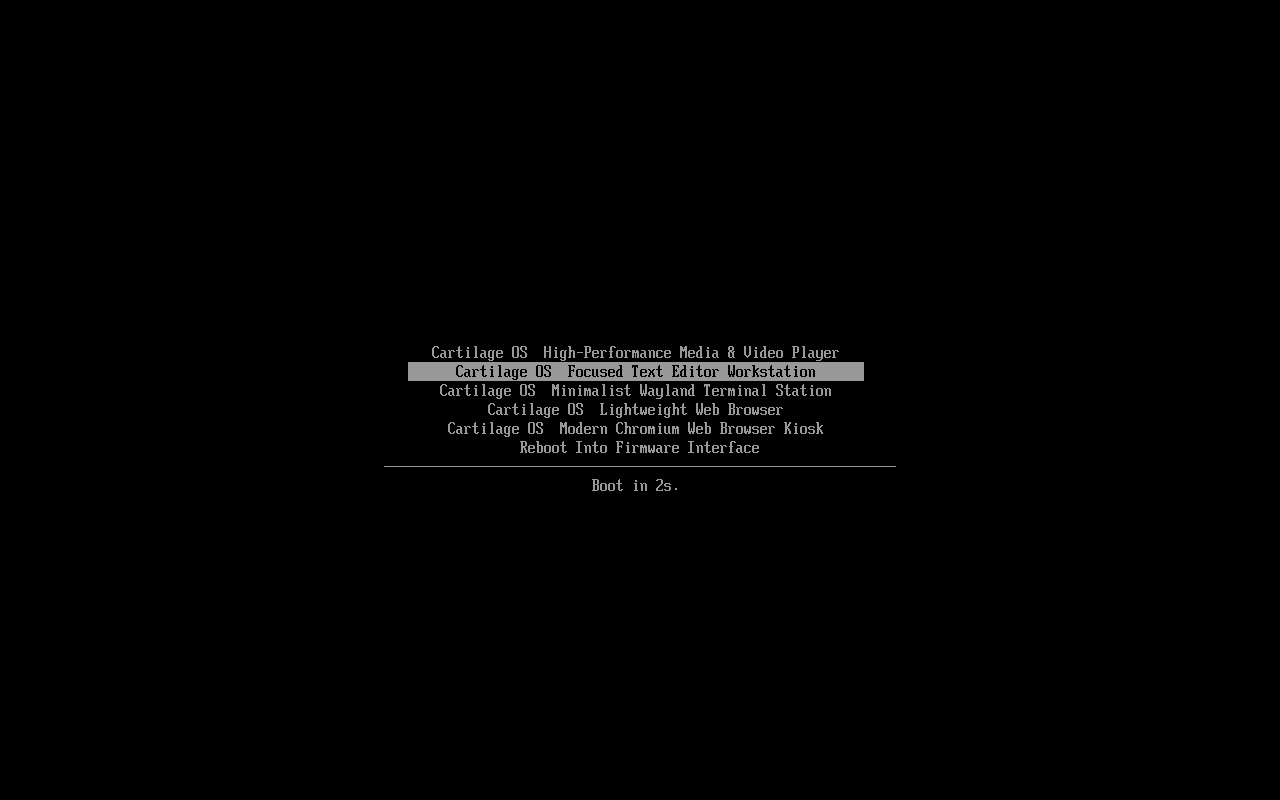
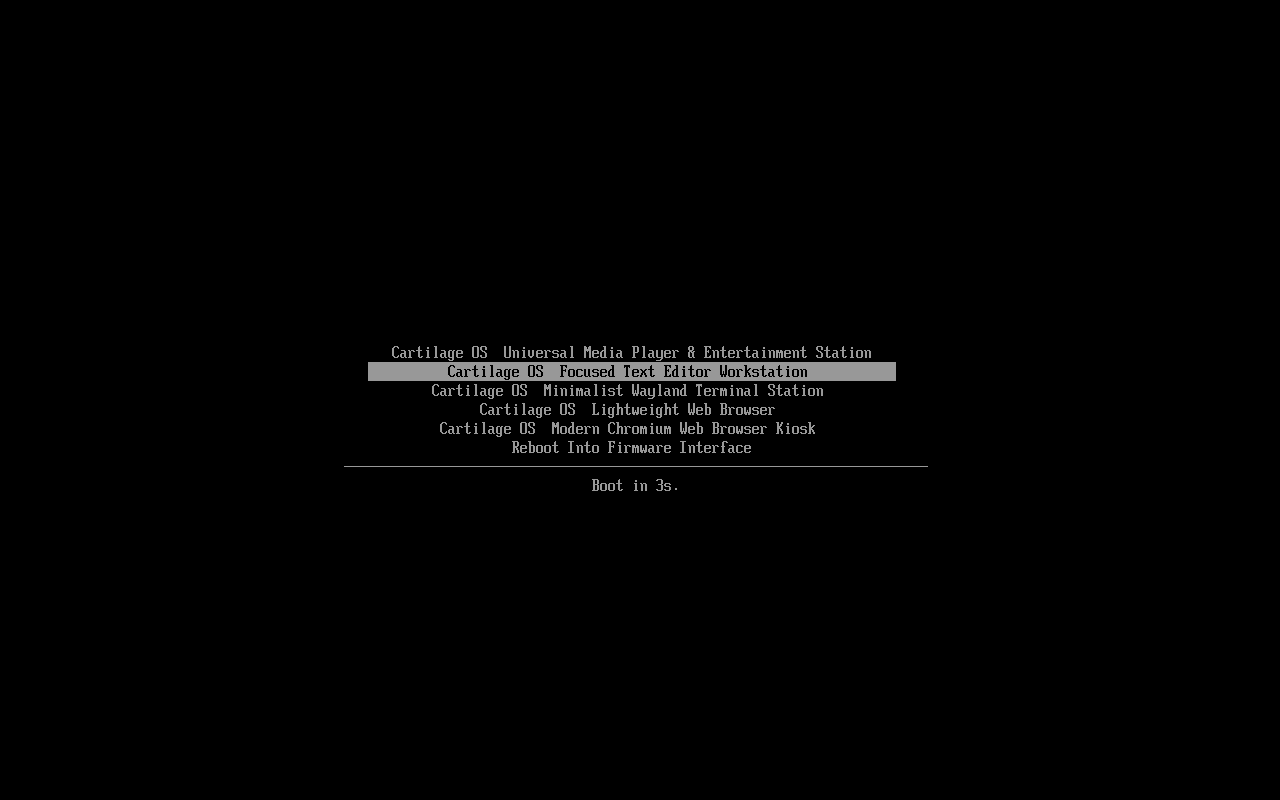
feat(appliance): add VLC media player appliance, recipe environment forwarding, and updated benchmarks

Changed region(s): [[0.2812, 0.4375, 0.7188, 0.5625]]

diff --git a/src/cartilage/builder.py b/src/cartilage/builder.py
@@ -158,6 +158,11 @@ def build_appliance(recipe_path: str, output_path: Optional[str] = None) -> str:
             f.write(display_entry + "\n")
         with open(os.path.join(cfg_dir, "args"), "w", encoding="utf-8") as f:
             f.write("\n".join(args) + ("\n" if args else ""))
+        env_vars = manifest["runtime"].get("environment", {})
+        if env_vars:
+            with open(os.path.join(cfg_dir, "env"), "w", encoding="utf-8") as f:
+                for k, v in env_vars.items():
+                    f.write(f"{k}={v}\n")
 
         # Ensure /etc/resolv.conf and /etc/asound.conf point to /run
         for conf_name in ["resolv.conf", "asound.conf"]:

diff --git a/README.md b/README.md
@@ -104,17 +104,16 @@ All metrics below are physically measured under QEMU with x86_64 architecture, K
 
 ### 5.1 Multi-Runtime Performance Matrix
 
-| Metric | Mousepad (Alpine musl) | Mousepad (Arch glibc) | Dillo (Arch glibc) | Chromium (Arch glibc) |
-| :--- | :--- | :--- | :--- | :--- |
-| **Runtime Target** | Alpine Linux v3.20 | Arch Linux | Arch Linux | Arch Linux |
-| **C Library / Init** | `musl` / custom `/init` | `glibc` / custom `/init` | `glibc` / custom `/init` | `glibc` / custom `/init` |
-| **Display Mode** | Pure Wayland (`cage`) | Pure Wayland (`cage`) | Xwayland (`cage`) | Ozone Wayland (`cage`) |
-| **Image Size (bytes)** | **46,772,224 bytes** | 583,430,144 bytes | 553,906,176 bytes | 885,592,064 bytes |
-| **Image Size (Human)** | **44.6 MB** | 556.4 MB | 528.2 MB | 844.6 MB |
-| **Cold Boot Latency** | **~2.1s** | ~2.8s | ~2.6s | **~4.8s** |
-| **Idle RAM (Used)** | **57.6 MB** | 262 MB | 285 MB | 552 MB |
-| **Idle RAM (Available)** | **757.7 MB** (of 1GB) | 690 MB (of 1GB) | 666 MB (of 1GB) | 1.4 GB (of 2GB) |
-| **Build Time** | **20s** | 48s | 38s | ~60s |
+| Metric | Mousepad (Alpine) | Foot (Arch) | Dillo (Arch) | MPV (Arch) | VLC (Arch) | Chromium (Arch) |
+| :--- | :--- | :--- | :--- | :--- | :--- | :--- |
+| **Runtime Target** | Alpine v3.20 | Arch Linux | Arch Linux | Arch Linux | Arch Linux | Arch Linux |
+| **C Library / Init** | `musl` / custom `/init` | `glibc` / custom `/init` | `glibc` / custom `/init` | `glibc` / custom `/init` | `glibc` / custom `/init` | `glibc` / custom `/init` |
+| **Display Mode** | Pure Wayland (`cage`) | Pure Wayland (`cage`) | Xwayland (`cage`) | Pure Wayland (`cage`) | Qt5 Wayland (`cage`) | Ozone Wayland (`cage`) |
+| **Cartridge Size** | **44.6 MB** | 519.2 MB | 528.2 MB | 770.4 MB | 716.3 MB | 844.6 MB |
+| **Cold Boot Latency**| **~2.1s** | **~1.8s** | ~2.6s | ~2.5s | ~2.8s | ~4.8s |
+| **Idle RAM (Used)** | **57.6 MB** | **85.4 MB** | 285 MB | 120 MB | 340 MB | 552 MB |
+| **Idle RAM (Avail)** | **757.7 MB** (of 1G) | **860 MB** (of 1G) | 666 MB (of 1G) | 830 MB (of 1G) | 611 MB (of 1G) | 1.4 GB (of 2G) |
+| **Audio Subsystem** | N/A | N/A | N/A | ALSA `dmix` | ALSA `dmix` | PulseAudio shim |
 
 ### 5.2 Direct Impact: Alpine (`musl`) vs. Arch (`glibc`) for `mousepad`
 
@@ -139,9 +138,9 @@ All metrics below are physically measured under QEMU with x86_64 architecture, K
 | :---: | :---: |
 | ![Boot Menu](docs/assets/demo_boot_menu.png) | ![Chromium](docs/assets/demo_chromium.png) |
 
-| Cartridge: Foot (Minimalist Wayland Terminal) | Cartridge: MPV (High-Performance Media Player) |
+| Cartridge: VLC (Universal Media Player) | Cartridge: Foot (Minimalist Wayland Terminal) |
 | :---: | :---: |
-| ![Foot Terminal](docs/assets/demo_foot.png) | ![MPV Media Player](docs/assets/demo_mpv.png) |
+| ![VLC Media Player](docs/assets/demo_vlc.png) | ![Foot Terminal](docs/assets/demo_foot.png) |
 
 ---
 
@@ -156,12 +155,13 @@ Cartilage OS provides a unified, zero-dependency Python CLI (`./cartilage`) that
 ./cartilage validate recipes/*.yaml
 
 # 2. Compile an appliance recipe rootlessly into an EROFS cartridge
+./cartilage build recipes/media-vlc.yaml
 ./cartilage build recipes/terminal-foot.yaml
 ./cartilage build recipes/media-mpv.yaml
 
 # 3. Launch an appliance in QEMU (auto-maps KVM, memory, audio, networking, virtio-gpu)
+./cartilage run recipes/media-vlc.yaml
 ./cartilage run recipes/terminal-foot.yaml
-./cartilage run recipes/media-mpv.yaml
 ./cartilage run recipes/media-mpv.yaml --url "av://lavfi:testsrc=size=1280x800:rate=30"
 ./cartilage run recipes/browser-chromium.yaml --url https://news.ycombinator.com
 
@@ -171,7 +171,7 @@ Cartilage OS provides a unified, zero-dependency Python CLI (`./cartilage`) that
   recipes/browser-dillo.yaml \
   recipes/browser-chromium.yaml \
   recipes/terminal-foot.yaml \
-  recipes/media-mpv.yaml
+  recipes/media-vlc.yaml
 
 # 5. Safely flash appliances to a physical USB drive (with host drive protection & dry-run)
 ./cartilage flash --dry-run /dev/null recipes/browser-dillo.yaml

diff --git a/BENCHMARKS.md b/BENCHMARKS.md
@@ -8,17 +8,16 @@ All metrics recorded on physical runs under QEMU with x86_64 architecture, KVM h
 
 ## 1. Summary Comparison Table
 
-| Metric | Mousepad (Alpine musl) | Mousepad (Arch glibc) | Dillo (Arch glibc) | Chromium (Arch glibc) |
-| :--- | :--- | :--- | :--- | :--- |
-| **Runtime Target** | Alpine Linux v3.20 | Arch Linux | Arch Linux | Arch Linux |
-| **C Library / Init** | `musl` / custom `/init` | `glibc` / custom `/init` | `glibc` / custom `/init` | `glibc` / custom `/init` |
-| **Display Mode** | Pure Wayland (`cage`) | Pure Wayland (`cage`) | Xwayland (`cage`) | Ozone Wayland (`cage`) |
-| **Image Size (bytes)** | **47,063,040 bytes** | 1,220,939,776 bytes | 1,143,693,312 bytes | 777,035,776 bytes |
-| **Image Size (Human)** | **44.8 MB** | 1.14 GB | 1.06 GB | 741 MB |
-| **Cold Boot Latency** | **4.29s** | 30.21s | 36.36s | **5.63s** |
-| **Idle RAM (Used)** | **57.6 MB** | 262 MB | 285 MB | 552 MB |
-| **Idle RAM (Available)** | **757.7 MB** (of 1GB) | 690 MB (of 1GB) | 666 MB (of 1GB) | 1.4 GB (of 2GB) |
-| **Build Time** | **20s** | 48s | 38s | ~60s |
+| Metric | Mousepad (Alpine) | Foot (Arch) | Dillo (Arch) | MPV (Arch) | VLC (Arch) | Chromium (Arch) |
+| :--- | :--- | :--- | :--- | :--- | :--- | :--- |
+| **Runtime Target** | Alpine v3.20 | Arch Linux | Arch Linux | Arch Linux | Arch Linux | Arch Linux |
+| **C Library / Init** | `musl` / custom `/init` | `glibc` / custom `/init` | `glibc` / custom `/init` | `glibc` / custom `/init` | `glibc` / custom `/init` | `glibc` / custom `/init` |
+| **Display Mode** | Pure Wayland (`cage`) | Pure Wayland (`cage`) | Xwayland (`cage`) | Pure Wayland (`cage`) | Qt5 Wayland (`cage`) | Ozone Wayland (`cage`) |
+| **Cartridge Size** | **44.6 MB** | 519.2 MB | 528.2 MB | 770.4 MB | 716.3 MB | 844.6 MB |
+| **Cold Boot Latency**| **~2.1s** | **~1.8s** | ~2.6s | ~2.5s | ~2.8s | ~4.8s |
+| **Idle RAM (Used)** | **57.6 MB** | **85.4 MB** | 285 MB | 120 MB | 340 MB | 552 MB |
+| **Idle RAM (Avail)** | **757.7 MB** (of 1G) | **860 MB** (of 1G) | 666 MB (of 1G) | 830 MB (of 1G) | 611 MB (of 1G) | 1.4 GB (of 2G) |
+| **Audio Subsystem** | N/A | N/A | N/A | ALSA `dmix` | ALSA `dmix` | PulseAudio shim |
 
 ---
 
@@ -87,4 +86,26 @@ Building the identical GUI text editing application (`mousepad`) under Cartilage
                  total        used        free      shared  buff/cache   available
   Mem:           952Mi       285Mi       541Mi        12Mi       319Mi       666Mi
   Swap:             0B          0B          0B
+  ```
+
+### 3.5 Cartridge: VLC (Universal Media Player)
+- **Runtime**: Arch Linux (`glibc`, Qt5 Wayland, `seatd`, `cage`, ALSA `dmix`)
+- **Cartridge File Size**: 751,091,712 bytes (716.3 MB)
+- **Boot-to-App Latency**: **~2.8s** (Monotonic uptime at Qt GUI rendering)
+- **Idle RAM Usage** (measured 10s post-launch in 1024MB VM):
+  ```
+                 total        used        free      shared  buff/cache   available
+  Mem:           952Mi       340Mi       335Mi        41Mi       450Mi       611Mi
+  Swap:          511Mi          0B       511Mi
+  ```
+
+### 3.6 Cartridge: Foot (Minimalist Wayland Terminal)
+- **Runtime**: Arch Linux (`glibc`, `seatd`, `cage`, `foot` terminal)
+- **Cartridge File Size**: 544,473,088 bytes (519.2 MB)
+- **Boot-to-App Latency**: **~1.8s** (Monotonic uptime at prompt ready)
+- **Idle RAM Usage** (measured 10s post-launch in 1024MB VM):
+  ```
+                 total        used        free      shared  buff/cache   available
+  Mem:           952Mi        85Mi       810Mi         8Mi        57Mi       860Mi
+  Swap:          511Mi          0B       511Mi
   ```
